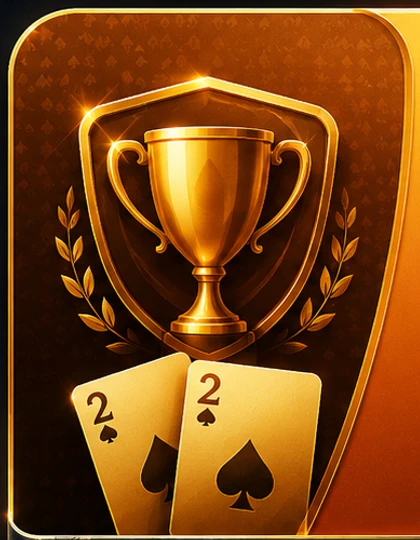
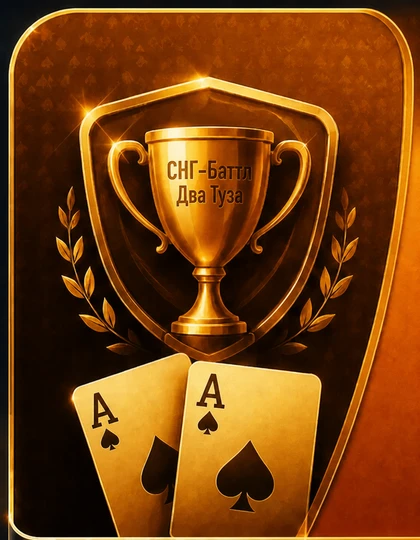
Finalize SNG card and bracket presentation

diff --git a/app-sng-champions.js b/app-sng-champions.js
@@ -958,7 +958,7 @@
         return '<article class="sng-champions-modal__tournament-option-wrap' + (item.id === data.tournamentId ? ' is-active' : '') + '">' +
           (data.isAdmin && item.status !== "bracket" && item.status !== "completed" ? '<button type="button" class="sng-champions-modal__tournament-delete" data-sng-delete-tournament="' + escapeHtml(item.id) + '" data-sng-delete-title="' + escapeHtml(item.title) + '" aria-label="Удалить турнир ' + escapeHtml(item.title) + '">×</button>' : '') +
           '<button type="button" class="sng-champions-modal__tournament-option" data-sng-tournament="' + escapeHtml(item.id) + '">' +
-            '<span class="sng-champions-modal__tournament-art" aria-hidden="true"><img src="./assets/sng-tournament-card-art.webp?v=1" alt=""></span>' +
+            '<span class="sng-champions-modal__tournament-art" aria-hidden="true"><img src="./assets/sng-tournament-card-art.webp?v=3" alt=""></span>' +
             '<span class="sng-champions-modal__tournament-content"><strong class="sng-champions-modal__tournament-title">' + escapeHtml(item.title) + (item.isTest ? ' <em class="sng-champions-modal__test-badge">ТЕСТ</em>' : '') + '</strong>' +
               '<span class="sng-champions-modal__tournament-live"><i></i>' + escapeHtml(item.activeStage ? 'Сейчас идёт: ' + item.activeStage : statusLabel(item.status)) + ' · <b>' + escapeHtml(String(item.approved || 0)) + '/' + escapeHtml(String(item.capacity || 32)) + '</b></span>' +
               '<dl class="sng-champions-modal__tournament-facts">' +
@@ -1342,7 +1342,8 @@
           var namedStageClass = ["1/4", "Полуфинал", "Финал", "Гранд финал"].indexOf(roundLabel) >= 0
             ? " sng-champions-modal__map-round--named-stage"
             : "";
-          return '<div class="sng-champions-modal__map-round' + (index === stageIndex ? " sng-champions-modal__map-round--active" : "") + compactRoundClass + namedStageClass + ' sng-champions-modal__map-round--matches-' + escapeHtml(matchCount) + '">' +
+          var finalStageClass = payoutStage === "Финал" && kind === "winners" ? " sng-champions-modal__map-round--final-stage" : "";
+          return '<div class="sng-champions-modal__map-round' + (index === stageIndex ? " sng-champions-modal__map-round--active" : "") + compactRoundClass + namedStageClass + finalStageClass + ' sng-champions-modal__map-round--matches-' + escapeHtml(matchCount) + '">' +
             '<button type="button" class="sng-champions-modal__map-round-title" ' + stageAttr + '="' + escapeHtml(index) + '"><span>' + escapeHtml(roundLabel) + '</span></button>' +
             mapAwards +
             '<div class="sng-champions-modal__map-round-matches">' +
@@ -1565,7 +1566,14 @@
       var prize = button.querySelector(".home-club-choice-plaque__prize");
       var entry = button.querySelector(".home-club-choice-plaque__entry");
       if (count) count.textContent = String(approved) + "/" + String(state.capacity || 32);
-      if (title && state.title) title.innerHTML = '<span class="home-club-choice-plaque__dynamic-title">' + escapeHtml(state.title).replace(/^1/, '<b class="home-club-choice-plaque__ordinal-one">1</b>') + '</span>';
+      if (title && state.title) {
+        var normalizedTitle = String(state.title).trim();
+        if (/^1(?:ый|й)\s+снг[-\s]?баттл\s+лига\s+чемпионов\s+два\s+туза$/i.test(normalizedTitle)) {
+          title.innerHTML = '<span class="home-club-choice-plaque__dynamic-title home-club-choice-plaque__dynamic-title--battle"><span><b class="home-club-choice-plaque__ordinal-one">1</b>ый СНГ-баттл</span><span>Лига чемпионов</span><span>Два туза</span></span>';
+        } else {
+          title.innerHTML = '<span class="home-club-choice-plaque__dynamic-title">' + escapeHtml(normalizedTitle).replace(/^1/, '<b class="home-club-choice-plaque__ordinal-one">1</b>') + '</span>';
+        }
+      }
       if (prize && state.prizes && state.prizes[0]) prize.textContent = state.prizes[0].text || "";
       if (entry) entry.textContent = "Вход " + String(state.buyIn || "0р");
       if (sub) {
@@ -1574,6 +1582,14 @@
         else if (state.status === "completed") sub.textContent = "Итоги готовы";
         else sub.textContent = "Запись закрыта";
       }
+    });
+    Array.prototype.forEach.call(document.querySelectorAll("[data-sng-home-cta]"), function (cta) {
+      var canJoin = state.status === "open";
+      var canWatch = state.status === "bracket" || state.status === "completed";
+      cta.hidden = !canJoin && !canWatch;
+      cta.textContent = canJoin ? "Записаться" : "Смотреть";
+      cta.setAttribute("aria-label", canJoin ? "Записаться на СНГ-турнир" : "Смотреть сетку СНГ-турнира");
+      cta.classList.toggle("home-sng-champions-action__cta--watch", canWatch);
     });
   }
 

diff --git a/styles.css b/styles.css
@@ -2875,6 +2875,54 @@ body[data-view="daily-poker"] #app.app .daily-poker__header::before {
   mask-image: linear-gradient(270deg, #000 0%, transparent 86%);
 }
 
+.app.app--view-home .home-sng-champions-action:has(.home-sng-champions-action__cta:not([hidden])) .home-club-choice-plaque--sng {
+  padding-bottom: clamp(53px, 13vw, 64px);
+}
+
+.home-sng-champions-action__cta {
+  position: absolute;
+  right: clamp(12px, 3.2vw, 18px);
+  bottom: clamp(9px, 2.3vw, 13px);
+  left: clamp(12px, 3.2vw, 18px);
+  z-index: 20;
+  min-height: clamp(36px, 9.5vw, 44px);
+  padding: 0 20px;
+  border: 1px solid rgba(255, 235, 174, 0.92);
+  border-radius: 11px;
+  color: #241203;
+  background:
+    linear-gradient(180deg, rgba(255, 255, 255, 0.38), transparent 32%),
+    linear-gradient(180deg, #ffd975 0%, #ffae27 55%, #eb7200 100%);
+  box-shadow:
+    inset 0 1px 0 rgba(255, 255, 255, 0.62),
+    inset 0 -2px 5px rgba(128, 48, 0, 0.28),
+    0 0 14px rgba(255, 139, 21, 0.35),
+    0 5px 12px rgba(0, 0, 0, 0.45);
+  font: inherit;
+  font-size: clamp(13px, 3.4vw, 16px);
+  font-weight: 950;
+  letter-spacing: 0.02em;
+  text-transform: uppercase;
+  cursor: pointer;
+  text-shadow: 0 1px 0 rgba(255, 244, 196, 0.54);
+}
+
+.home-sng-champions-action__cta:hover,
+.home-sng-champions-action__cta:focus-visible {
+  filter: brightness(1.1);
+  transform: translateY(-1px);
+}
+
+.home-sng-champions-action__cta:active {
+  filter: brightness(0.96);
+  transform: translateY(1px);
+}
+
+/* Keep room for the contextual action after the later home-plaque overrides. */
+.app.app--view-home .home-sng-champions-action:has(.home-sng-champions-action__cta:not([hidden])) .home-club-choice-plaque--sng {
+  padding-bottom: clamp(53px, 13vw, 64px) !important;
+}
+
 .home-club-choice-plaque {
   position: relative;
   z-index: 1;
@@ -7889,6 +7937,17 @@ body[data-view="home"] #app.app .card .card__content > .view--active[data-view="
 
 .home-club-choice-plaque--sng .home-club-choice-plaque__dynamic-title {
   display: inline;
+}
+
+.home-club-choice-plaque--sng .home-club-choice-plaque__dynamic-title--battle {
+  display: grid;
+  justify-items: center;
+  gap: 0.02em;
+}
+
+.home-club-choice-plaque--sng .home-club-choice-plaque__dynamic-title--battle > span {
+  display: block;
+  white-space: nowrap;
 }
 
 .home-club-choice-plaque--sng .home-club-choice-plaque__dynamic-title .home-club-choice-plaque__ordinal-one {

diff --git a/styles-home-widget-modals.css b/styles-home-widget-modals.css
@@ -8709,6 +8709,10 @@ body.club-choice-vote-open {
 .sng-champions-modal__map-awards { display:flex; flex-wrap:wrap; justify-content:center; gap:5px; margin:7px 2px 10px; min-height:24px; }
 .sng-champions-modal__map-award { display:inline-flex; align-items:center; gap:4px; padding:5px 9px; border:1px solid #ffc243; border-radius:999px; background:linear-gradient(180deg,#6e3e05,#281703); color:#ffe7a1; font-size:11px; font-weight:900; white-space:nowrap; box-shadow:0 0 14px rgba(255,166,25,.48),inset 0 0 7px rgba(255,224,128,.16); text-shadow:0 1px 2px #000; }
 .sng-champions-modal__map-award b { color:#fff5d5; }
+.sng-champions-modal__map-round--final-stage { position:relative; }
+.sng-champions-modal__map-round--final-stage .sng-champions-modal__map-awards { position:absolute; left:calc(100% + 12px); top:50%; z-index:9; display:grid; justify-items:start; width:max-content; max-width:190px; margin:0; transform:translateY(-50%); }
+.sng-champions-modal__map-round--final-stage .sng-champions-modal__map-award { min-width:135px; justify-content:center; font-size:12px; }
+.sng-champions-modal__bracket-map-wrap--winners .sng-champions-modal__bracket-map { padding-right:190px; }
 .sng-champions-modal__map-match-reward { position:absolute; left:50%; top:-26px; z-index:7; display:inline-flex; align-items:center; justify-content:center; max-width:calc(100% - 12px); padding:4px 9px; border:1px solid rgba(77,244,222,.72); border-radius:999px; background:rgba(3,38,35,.96); color:#8affef; font-size:10px; font-weight:900; line-height:1.15; white-space:nowrap; transform:translateX(-50%); box-shadow:0 0 10px rgba(47,235,213,.32); text-shadow:0 1px 2px #000; }
 @media (max-width:600px) { .sng-champions-modal__create-tournament { grid-template-columns:1fr; } .sng-champions-modal__create-tournament label { grid-column:1; } }
 .sng-champions-modal__tournament-card { display:grid; grid-template-columns:1fr; gap:14px; }

diff --git a/index.html b/index.html
@@ -798,6 +798,7 @@
                   <small class="home-club-choice-plaque__subtext">Загрузка</small>
                   <small class="home-club-choice-plaque__entry">Вход —</small>
                 </button>
+                <button type="button" class="home-sng-champions-action__cta" data-sng-open data-sng-home-cta hidden>Записаться</button>
               </div>
               <div class="home-club-choice-actions" aria-label="Быстрые клубные действия">
                 <button type="button" class="home-club-choice-plaque home-club-choice-plaque--cash" id="privateCashSignupOpen" aria-label="Открыть приватный кеш">
@@ -1832,7 +1833,7 @@
     <script type="application/poker-lazy" data-poker-lazy-domain="equilator" src="./app-equilator.js?v=3.666"></script>
     <script type="application/poker-lazy" data-poker-lazy-domain="home-widget-club-choice" src="./app-club-choice-vote.js?v=3.711"></script>
     <script type="application/poker-lazy" data-poker-lazy-domain="home-widget-private-cash" src="./app-private-cash.js?v=3.702"></script>
-    <script type="application/poker-lazy" data-poker-lazy-domain="home-widget-sng" src="./app-sng-champions.js?v=3.807"></script>
+    <script type="application/poker-lazy" data-poker-lazy-domain="home-widget-sng" src="./app-sng-champions.js?v=3.808"></script>
     <script type="application/poker-lazy" data-poker-lazy-domain="club-tasks" src="./app-club-tasks.js?v=3.666"></script>
     <script type="application/poker-lazy" data-poker-lazy-domain="rating-common" src="./app-rating-spring-runtime.js?v=3.667"></script>
     <script type="application/poker-lazy" data-poker-lazy-domain="rating-common" src="./app-rating-summer-runtime.js?v=3.666"></script>
